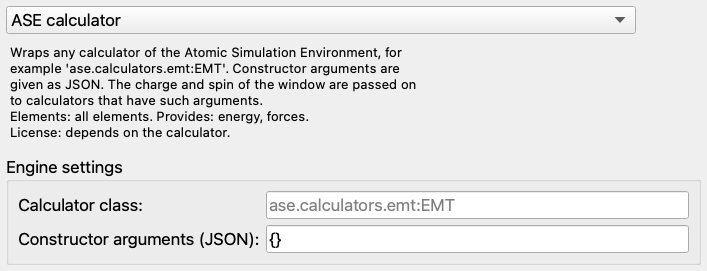
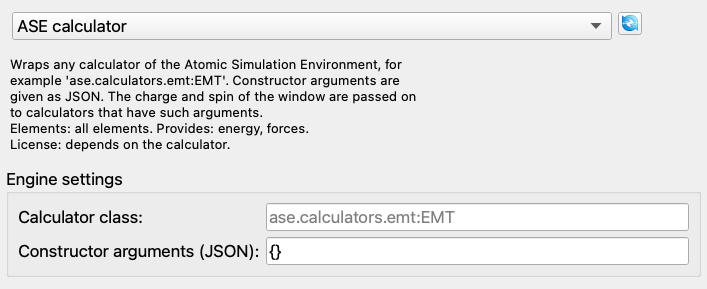
Help: the section is called Python Engines; Refresh instead of Find Engines in the pages, tutorial and guides; tool bar page lists the py and Q buttons

diff --git a/resources/help/plugin-tutorial.html b/resources/help/plugin-tutorial.html
@@ -43,7 +43,7 @@
    A plugin is an ordinary Python package that contains such a class and announces it under
    the name <tt>iqmolx_engines</tt>.  The helper looks for these announcements every time the
    window asks for the engines, so a package that is installed while IQMolX is open is found
-   with the <b>Find Engines</b> button.
+   with the <b>Refresh</b> button (the circular arrows next to the Engine list).
 
 
    <br>
@@ -299,7 +299,7 @@ uv pip install --python "$PY" -e ./iqmolx-engine-emt</pre>
 
    <p> (<tt>uv</tt> is the installer that IQMolX uses; <tt>PY</tt> is the Python of the
    IQMolX environment.  If you chose your own Python in the window, use that one.)  Then press
-   <b>Find Engines</b>: a running helper notices a plugin that was installed after it started.
+   <b>Refresh</b> (next to the Engine list): a running helper notices a plugin that was installed after it started.
    <b>The code of a plugin that was already loaded is not read again</b>: after you edit it,
    quit and start IQMolX.
 
@@ -392,7 +392,7 @@ uv pip install --python "$PY" -e ./iqmolx-engine-emt</pre>
 
    <table border="0" cellpadding="4">
       <tr><td valign="top"><i>The engine is not in the list</i></td>
-          <td> Press <b>Find Engines</b>.  Then check that the plugin was installed into the
+          <td> Press <b>Refresh</b> (the circular arrows next to the Engine list).  Then check that the plugin was installed into the
                Python shown in the window (a plugin in another Python is not seen), and run
                the <tt>--describe</tt> command of step 9 with the same Python: the helper
                prints a line on its error output for a plugin that it cannot use, for

diff --git a/resources/help/python-engines.html b/resources/help/python-engines.html
@@ -5,7 +5,7 @@
 
 <body>
 
-   <center> <h1> Python Engines: Machine Learning Potentials and More <br> </h1> </center><p></p>
+   <center> <h1> Python Engines <br> </h1> </center><p></p>
 
    <p> Besides the xtb methods, IQMolX can calculate energies, optimize
    geometries and find vibrational frequencies with methods written in Python:
@@ -16,8 +16,9 @@
 
    <p> The methods live in a Python environment, not in IQMolX.  The first time
    you use them IQMolX can make that environment for you; this page explains how,
-   what is downloaded and where it is kept.  The window is opened with the menu
-   option Calculation&rarr;Python Engines (Ctrl+Shift+E).
+   what is downloaded and where it is kept.  The window is opened with the
+   <img src="images/buttons/Py.png"> button on the <a href="toolbar.html">Tool Bar</a> or with
+   the menu option Calculation&rarr;Python Engines (Ctrl+Shift+E).
 
    <p><center><img src="images/PythonWindow.png" width="470" /></center></p>
 
@@ -74,7 +75,8 @@
 
    <p> If you already have a Python with the engines you want, for example a conda
    environment, enter its location in the <i>Python</i> field (or press
-   <b>Browse...</b>) and press <b>Find Engines</b>.  That Python needs the
+   <b>Browse...</b>) and press the <b>Refresh</b> button (the circular arrows next to the
+   Engine list).  That Python needs the
    iqmolx-engines package: it is the file <tt>iqmolx_engines-*.whl</tt> in
    <tt>IQMolX.app/Contents/Resources/python</tt>, which you install with
    <tt>pip install</tt> and the path of the file.  The <b>Install</b> buttons

diff --git a/resources/help/toolbar.html b/resources/help/toolbar.html
@@ -49,12 +49,6 @@
                menu Build&rarr;Select Force Field.</td>
       </tr>
 
-      <tr><td> <p><img src="images/buttons/Xtb.png"></td>
-          <td> Opens the xtb window for <a href="xtb.html">semiempirical
-               calculations</a> (optimization, energies, frequencies and
-               orbitals) with the xtb program or library.</td>
-      </tr>
-
       <tr><td> <p><img src="images/buttons/MagicWand.png"></td>
           <td> Enters <a href="modes.html#select">select</a> mode. </td>
       </tr>
@@ -78,6 +72,23 @@
       <tr><td> <img src="images/buttons/Display.png"></td>
 		  <td> Enters full-screen mode.  Use <i>Ctrl-0</i> (&#8984;-0 on Mac) to
                exit. </td>
+      </tr>
+
+      <tr><td> <p><img src="images/buttons/Xtb.png"></td>
+          <td> Opens the xtb window for <a href="xtb.html">semiempirical
+               calculations</a> (optimization, energies, frequencies and
+               orbitals) with the xtb program or library.</td>
+      </tr>
+
+      <tr><td> <p><img src="images/buttons/Py.png"></td>
+          <td> Opens the <a href="python-engines.html">Python Engines</a> window for
+               calculations with machine learning potentials, PySCF, ASE calculators
+               and engine plugins (Ctrl+Shift+E).</td>
+      </tr>
+
+      <tr><td> <p><img src="images/buttons/QChem.png"></td>
+          <td> Opens the Q-Chem setup window to prepare and submit a Q-Chem job
+               (Ctrl+U).</td>
       </tr>
 
       <tr><td> <img src="images/buttons/Help.png"></td>

diff --git a/resources/help/index.html b/resources/help/index.html
@@ -59,7 +59,7 @@
          </ul>
          <br>
 
-      <li> <a href="python-engines.html">Python Engines: Machine Learning Potentials</a>
+      <li> <a href="python-engines.html">Python Engines</a>
          <ul>
             <li> <a href="python-engines.html#setup">Setting Up Python</a>
             <li> <a href="python-engines.html#engines">Engines</a>

diff --git a/scripts/make-plugin-tutorial.py b/scripts/make-plugin-tutorial.py
@@ -107,7 +107,7 @@ page = """<html>
    A plugin is an ordinary Python package that contains such a class and announces it under
    the name <tt>iqmolx_engines</tt>.  The helper looks for these announcements every time the
    window asks for the engines, so a package that is installed while IQMolX is open is found
-   with the <b>Find Engines</b> button.
+   with the <b>Refresh</b> button (the circular arrows next to the Engine list).
 
 
    <br>
@@ -280,7 +280,7 @@ uv pip install --python "$PY" -e ./iqmolx-engine-emt
 """) + """
    <p> (<tt>uv</tt> is the installer that IQMolX uses; <tt>PY</tt> is the Python of the
    IQMolX environment.  If you chose your own Python in the window, use that one.)  Then press
-   <b>Find Engines</b>: a running helper notices a plugin that was installed after it started.
+   <b>Refresh</b> (next to the Engine list): a running helper notices a plugin that was installed after it started.
    <b>The code of a plugin that was already loaded is not read again</b>: after you edit it,
    quit and start IQMolX.
 
@@ -370,7 +370,7 @@ printf '%s\\n' \\
 
    <table border="0" cellpadding="4">
       <tr><td valign="top"><i>The engine is not in the list</i></td>
-          <td> Press <b>Find Engines</b>.  Then check that the plugin was installed into the
+          <td> Press <b>Refresh</b> (the circular arrows next to the Engine list).  Then check that the plugin was installed into the
                Python shown in the window (a plugin in another Python is not seen), and run
                the <tt>--describe</tt> command of step 9 with the same Python: the helper
                prints a line on its error output for a plugin that it cannot use, for

diff --git a/python/iqmolx-engines/PLUGINS.md b/python/iqmolx-engines/PLUGINS.md
@@ -236,7 +236,7 @@ where = ["src"]
   or, while developing, `-e ./my-plugin` so that edits are picked up. In the window, the
   **Install Plugin...** button does the same for a package name, a Git address, or a folder or
   wheel (without `-e`).
-* Press **Find Engines** in the window: a running helper notices a plugin that was installed
+* Press **Refresh** (the circular arrows next to the Engine list) in the window: a running helper notices a plugin that was installed
   after it started. **Code of a plugin that was already imported is not reloaded**: after changing
   it, restart IQMolX (the helper stops with it).
 
@@ -279,7 +279,7 @@ Built-in names (`demo`, `ase`, `torchani`) win. Pick a different name.
      '{"id":2,"type":"compute","numbers":[18,18],"coordinates":[[0,0,0],[0,0,3.8]]}' \
      | python -m iqmolx_engines
    ```
-4. **Try it in IQMolX**: *Calculation > Python Engines*, *Find Engines*, choose the engine,
+4. **Try it in IQMolX**: *Calculation > Python Engines*, *Refresh*, choose the engine,
    optimize a small molecule. A good force implementation converges in a few cycles; if the
    optimizer wanders, the forces are not the gradient of the energy (test 2 shows it).
 

diff --git a/python/examples/iqmolx-engine-emt/README.md b/python/examples/iqmolx-engine-emt/README.md
@@ -9,5 +9,5 @@ folder), or from a terminal into the environment of IQMolX:
 
     uv pip install --python "$HOME/Library/Application Support/IQmol/python/bin/python" ./iqmolx-engine-emt
 
-Then press **Find Engines**: *EMT metals (ASE, example plugin)* is in the Engine list.  `cu4.xyz`
+Then press **Refresh** (the circular arrows next to the Engine list): *EMT metals (ASE, example plugin)* is in the Engine list.  `cu4.xyz`
 is a starting geometry (File, Open, then run a geometry optimization).
